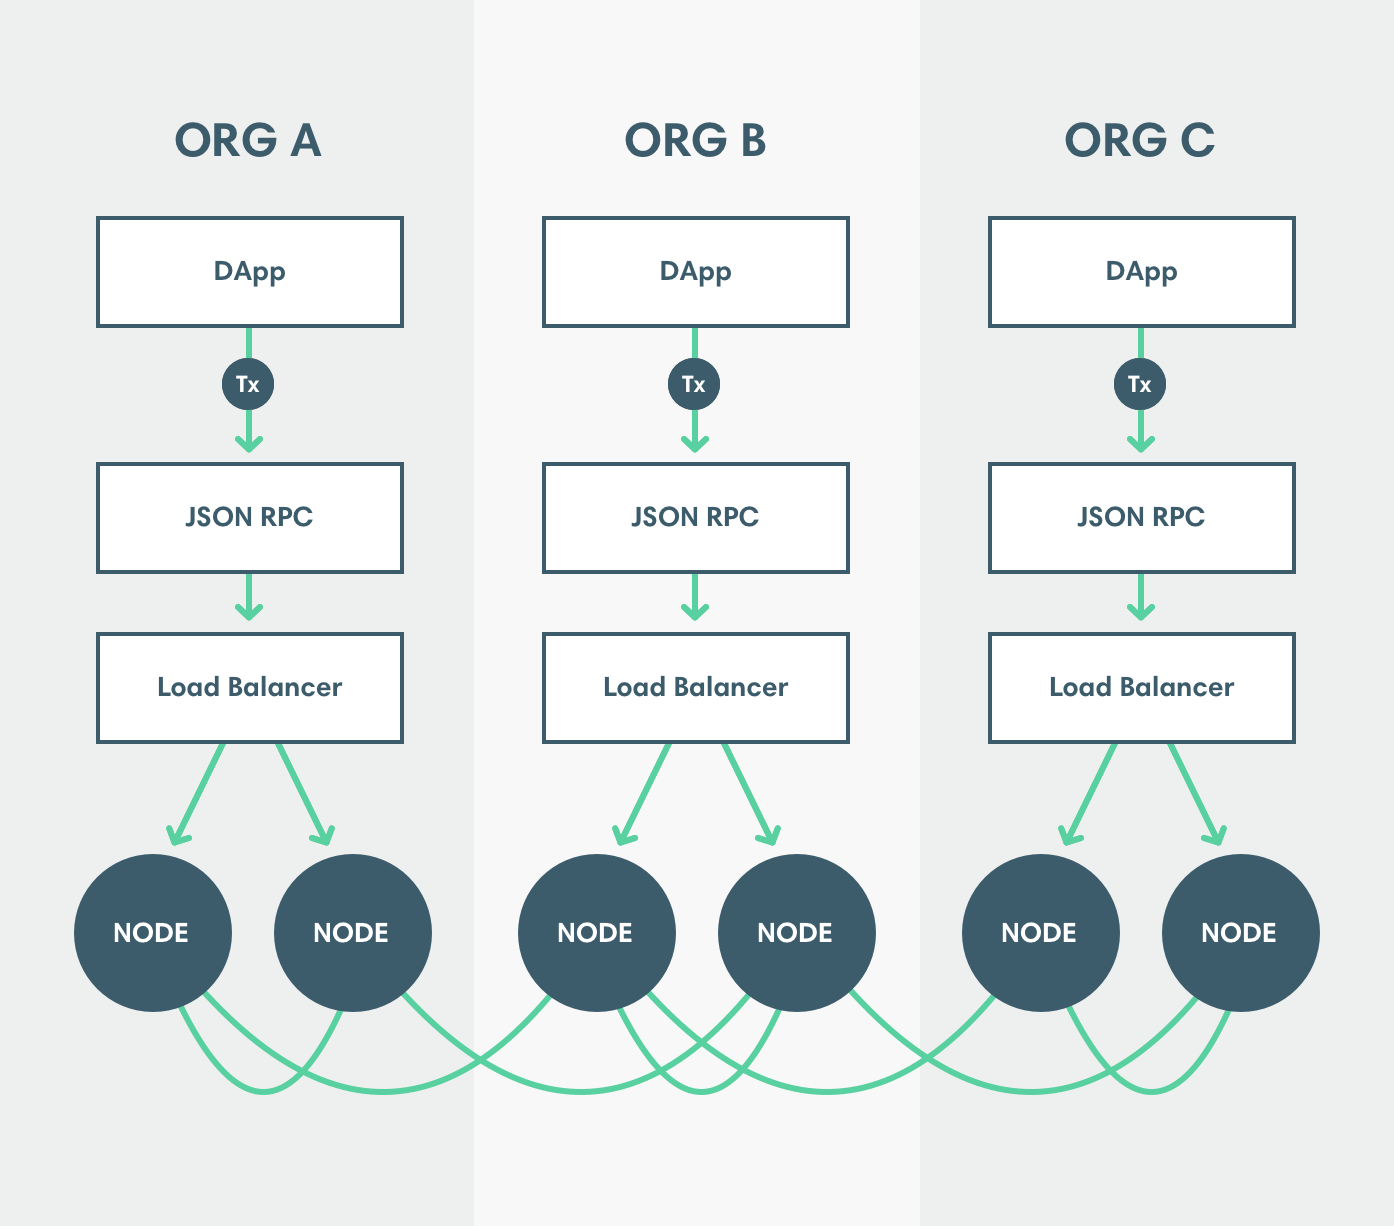
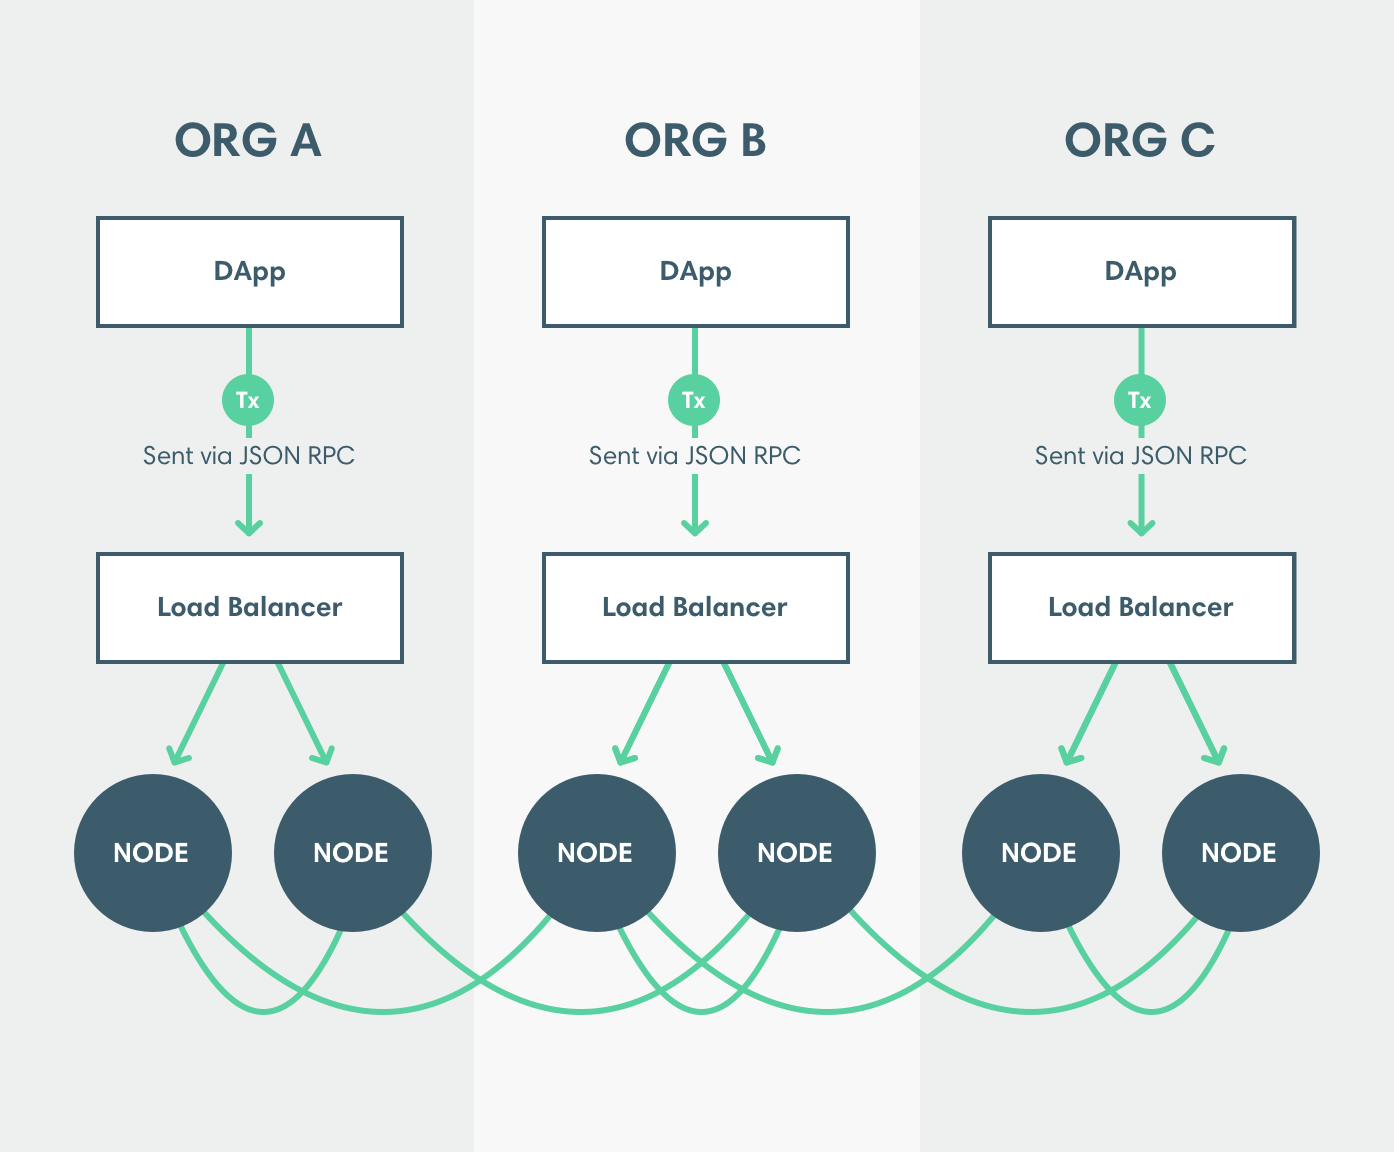
Renamed HA section to make clearer what it is  (#1750)

Changed region(s): [[0.0308, 0.0938, 0.9562, 0.9062]]

diff --git a/docs/Privacy/How-To/eeajs.md b/docs/Privacy/How-To/eeajs.md
@@ -58,6 +58,6 @@ to get the contract binary.
 
 The transaction hash is returned. To get the private transaction receipt, use `web3.eea.getTransactionReceipt(txHash)`. 
 
-## Reference 
+## web3.js-eea Methods 
 
-Refer to [web3.js-eea reference](../../Reference/web3js-eea-Methods.md) for more methods and examples. 
+Refer to the [web3.js-eea reference documentation](../../Reference/web3js-eea-Methods.md).

diff --git a/docs/Deploying-Pantheon/High-Availability.md b/docs/Deploying-Pantheon/High-Availability.md
@@ -1,7 +1,7 @@
 description: Pantheon high availability 
 <!--- END of page meta data -->
 
-# High Availability 
+# High Availability of JSON-RPC and RPC Rub/Sub APIs
 
 To enable high availability to the [RPC Pub/Sub API over WebSockets](../Pantheon-API/RPC-PubSub.md) 
 or the [JSON-RPC API](../Pantheon-API/Using-JSON-RPC-API.md) run and synchronize multiple Pantheon 
